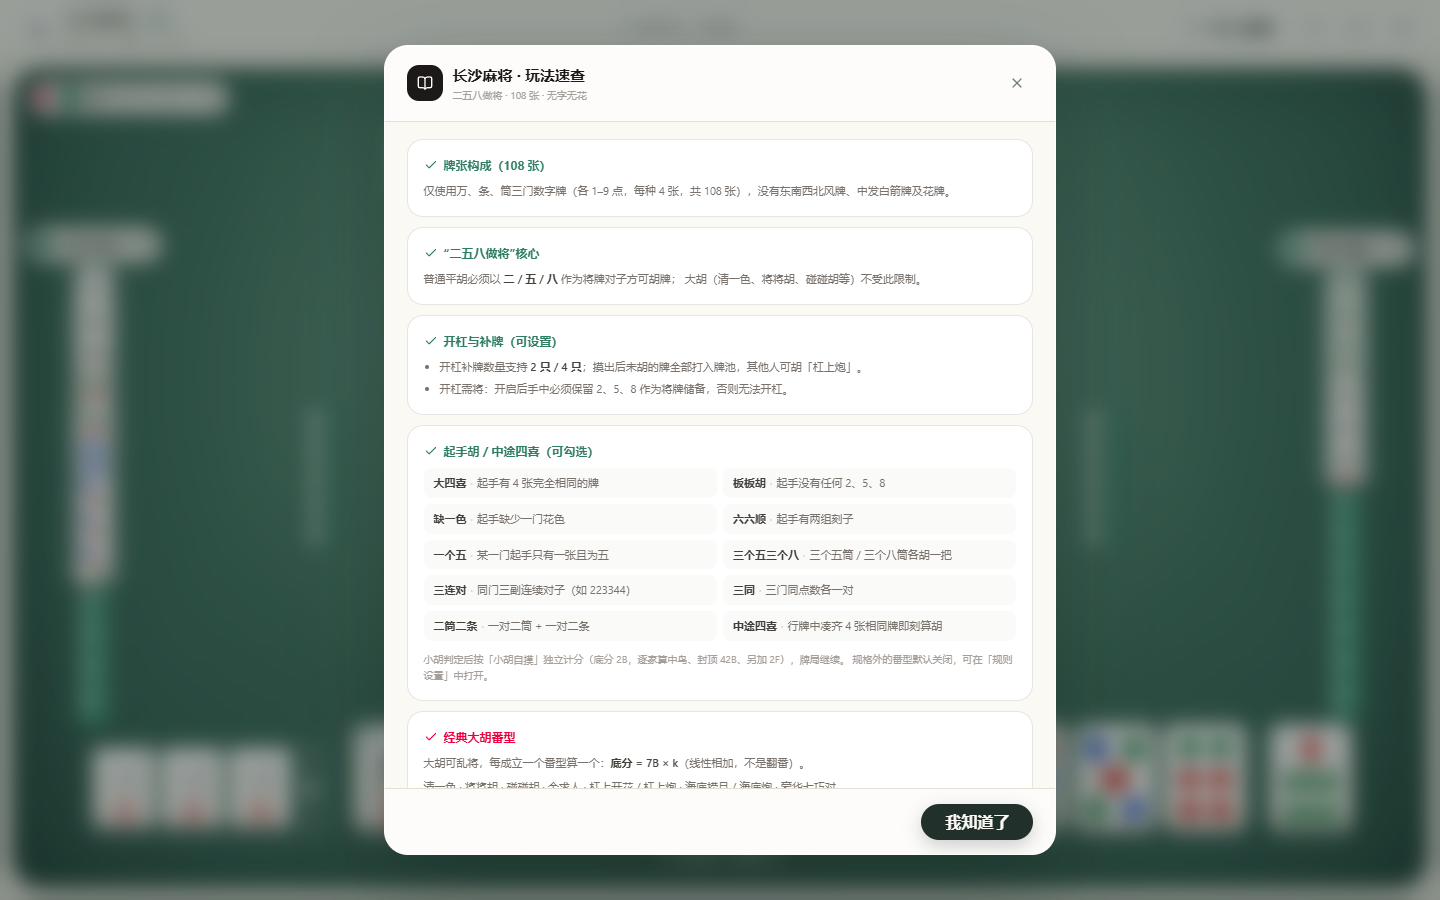
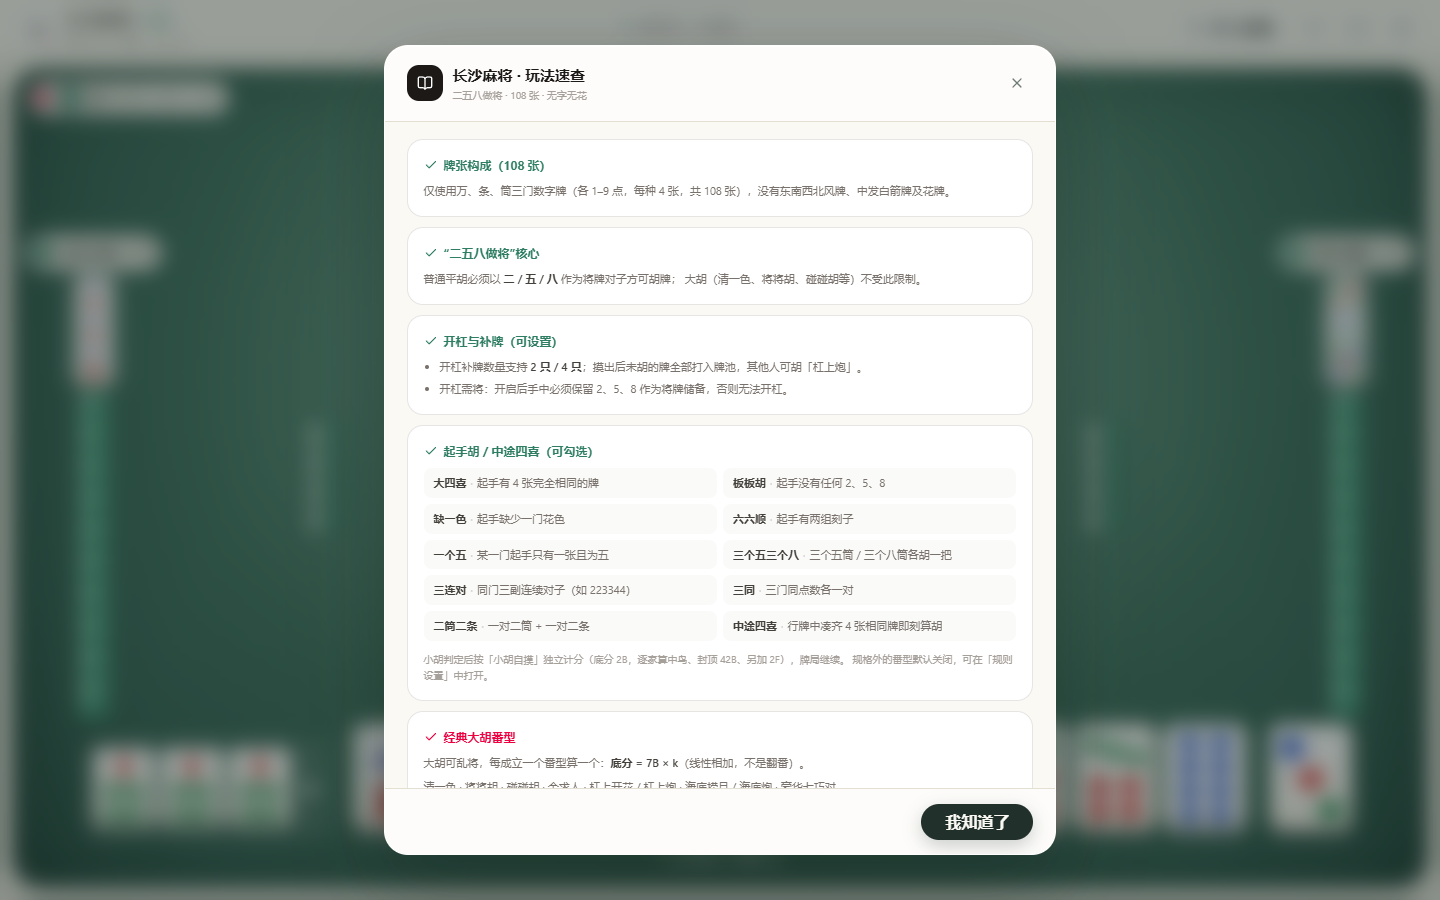
feat: use HJD brush glyphs for 万 tiles (traditional 萬, blue/red ink)
- crop 1-9 wan calligraphy from MJFace2.0-High, key out white, import as transparent PNG
- add reproducible scripts/extract-hjd-tiles.py
- refresh screenshots and docs

diff --git a/src/components/MahjongTile.jsx b/src/components/MahjongTile.jsx
@@ -1,41 +1,44 @@
 import React from 'react';
-import { SUITS, NUMBER_NAMES, isJiangTile } from '../types/mahjong.js';
+import { SUITS, isJiangTile } from '../types/mahjong.js';
+
+import wan1 from '../assets/hjd/wan/wan-1.png';
+import wan2 from '../assets/hjd/wan/wan-2.png';
+import wan3 from '../assets/hjd/wan/wan-3.png';
+import wan4 from '../assets/hjd/wan/wan-4.png';
+import wan5 from '../assets/hjd/wan/wan-5.png';
+import wan6 from '../assets/hjd/wan/wan-6.png';
+import wan7 from '../assets/hjd/wan/wan-7.png';
+import wan8 from '../assets/hjd/wan/wan-8.png';
+import wan9 from '../assets/hjd/wan/wan-9.png';
+
+const WAN_FACE = {
+  1: wan1,
+  2: wan2,
+  3: wan3,
+  4: wan4,
+  5: wan5,
+  6: wan6,
+  7: wan7,
+  8: wan8,
+  9: wan9
+};
 
 // -------------------------------------------------------------
-// 1. 万字牌：墨色数字 + 朱砂「万」，只保留一点点传统印刷的味道
+// 1. 万字牌：直接使用《3D 黄金岛》牌面图集里的毛笔字块（一~九 + 繁体「萬」），
+//    蓝墨数字、朱砂萬，和原版牌面文字一致；只把牌身换成本项目的象牙白样式。
 // -------------------------------------------------------------
 function SvgWan({ value }) {
-  const numChar = NUMBER_NAMES[value];
-  const brushFont = '"Noto Serif SC", "Songti SC", "STSong", "SimSun", serif';
-
+  const src = WAN_FACE[value];
+  if (!src) return null;
   return (
-    <g transform="translate(0, 0)">
-      <text
-        x="36"
-        y="35"
-        textAnchor="middle"
-        dominantBaseline="central"
-        fill="var(--art-ink)"
-        fontSize="34"
-        fontWeight="700"
-        fontFamily={brushFont}
-      >
-        {numChar}
-      </text>
-      <text
-        x="36"
-        y="72"
-        textAnchor="middle"
-        dominantBaseline="central"
-        fill="var(--art-wan-500)"
-        fontSize="34"
-        fontWeight="700"
-        fontFamily={brushFont}
-      >
-        万
-      </text>
-      <line x1="22" y1="53" x2="50" y2="53" stroke="var(--art-wan-300)" strokeWidth="1" strokeLinecap="round" opacity="0.55" />
-    </g>
+    <image
+      href={src}
+      x="9"
+      y="4"
+      width="54"
+      height="84"
+      preserveAspectRatio="xMidYMid meet"
+    />
   );
 }
 
@@ -443,7 +446,7 @@ export default function MahjongTile({
           {tile.suit === SUITS.TONG && <SvgTong value={tile.value} />}
 
           {showJiangBadge && isJiang && (
-            <circle cx="11" cy="11" r="4" fill="var(--color-jade-500)" stroke="var(--art-white)" strokeWidth="1.2" />
+            <circle cx="5.5" cy="6" r="2.2" fill="var(--color-jade-500)" stroke="var(--art-white)" strokeWidth="0.9" />
           )}
         </g>
       </svg>

diff --git a/scripts/extract-hjd-tiles.py b/scripts/extract-hjd-tiles.py
@@ -1,0 +1,89 @@
+#!/usr/bin/env python3
+"""从《3D 黄金岛》的 MJFace2.0-High 图集裁出万子毛笔字块。
+
+输出：src/assets/hjd/wan/wan-1.png ... wan-9.png（透明背景）
+依赖：pip install UnityPy pillow
+
+说明：图集里的字块带不透明白底，这里按「离白距离」生成 alpha，
+保留蓝墨/朱砂的毛笔边缘，便于叠加到本项目的象牙白牌面上。
+"""
+from __future__ import annotations
+
+import argparse
+import os
+import sys
+from pathlib import Path
+
+try:
+    import UnityPy
+    from PIL import Image
+except ImportError:
+    sys.exit("缺少依赖：pip install UnityPy pillow")
+
+BUNDLE = "5ef9bcc6b85a369d81b4e09c5a8c5f0f.bundle"
+TEXTURE = "MJFace2.0-High"
+
+# 图集里 1–9 万字块的粗裁切框（左, 上, 右, 下）
+BOXES = {
+    1: (270, 410, 390, 605),
+    2: (392, 410, 505, 605),
+    3: (512, 410, 625, 605),
+    4: (632, 410, 745, 605),
+    5: (752, 410, 865, 605),
+    6: (872, 410, 985, 605),
+    7: (15, 600, 135, 800),
+    8: (138, 600, 258, 800),
+    9: (262, 600, 382, 800),
+}
+
+
+def strip_white(img: Image.Image) -> Image.Image:
+    img = img.convert("RGBA")
+    px = img.load()
+    for y in range(img.height):
+        for x in range(img.width):
+            r, g, b, _ = px[x, y]
+            m = min(r, g, b)
+            if m >= 248:
+                px[x, y] = (r, g, b, 0)
+            else:
+                px[x, y] = (r, g, b, min(255, int((255 - m) * 2.6)))
+    return img
+
+
+def main() -> None:
+    ap = argparse.ArgumentParser()
+    ap.add_argument("--hjd-root", default=r"D:\4a volcano\HJD\3DHJD\3DHJD_Data\StreamingAssets")
+    ap.add_argument("--out", default="src/assets/hjd/wan")
+    args = ap.parse_args()
+
+    bundle = Path(args.hjd_root) / "aa" / "StandaloneWindows" / BUNDLE
+    if not bundle.exists():
+        sys.exit(f"找不到图集 bundle：{bundle}")
+
+    env = UnityPy.load(str(bundle))
+    atlas = None
+    for obj in env.objects:
+        if obj.type.name != "Texture2D":
+            continue
+        data = obj.read()
+        if str(getattr(data, "m_Name", "")) == TEXTURE:
+            atlas = data.image
+            break
+    if atlas is None:
+        sys.exit(f"图集里找不到 {TEXTURE}")
+
+    out = Path(args.out)
+    out.mkdir(parents=True, exist_ok=True)
+    for n, box in BOXES.items():
+        cell = atlas.crop(box)
+        bbox = cell.getbbox()
+        if bbox:
+            cell = cell.crop(bbox)
+        strip_white(cell).save(out / f"wan-{n}.png")
+        print(f"wan-{n}.png", cell.size)
+    print("完成 ->", out.resolve())
+
+
+if __name__ == "__main__":
+    main()

diff --git a/README.md b/README.md
@@ -28,7 +28,7 @@
 
 - **浅色纸面外壳**：暖白底、细分隔线、低对比阴影，顶栏只保留品牌、模式与四个工具按钮。
 - **青瓷毛毡牌桌**：雾青渐变 + 极细经纬织纹 + 一圈很轻的亮边；没有金边、紫晶罗盘和屏幕震动。
-- **象牙骨牌**：去掉琥珀金底壳，改为象牙白面板 + 一道极浅侧边；万/条/筒改用克制的墨色、朱砂、竹青、靛蓝。
+- **象牙骨牌**：去掉琥珀金底壳，改为象牙白面板 + 一道极浅侧边；万子文字直接取自黄金岛牌面图集的毛笔字块（一~九 + 繁体「萬」），条/筒用克制的竹青、靛蓝、朱砂。
 - **三套桌面**：雾青（默认）/ 暖砂 / 夜潭，只换毛毡色，不改变规则与联机同步。
 - **安静的动效**：摸牌 180ms 滑入、出牌落桌、弹窗上浮、碰杠胡小标签 180ms 淡入；没有长时间阻塞与全屏抖动。
 
@@ -47,7 +47,8 @@ pip install UnityPy
 python scripts/extract-hjd-audio.py --hjd-root "D:/4a volcano/HJD/3DHJD/3DHJD_Data/StreamingAssets"
 ```
 
-> 这些音频来自你提供的《3D 黄金岛》本地文件，仅用于本机/私人项目；若要公开分发，请自行确认授权。
+> 这些音频与万子字块（裁自 HJD `MJFace2.0-High` 牌面图集）来自你提供的《3D 黄金岛》本地文件，
+> 仅用于本机/私人项目；若要公开分发，请自行确认授权。
 
 ### 3. 规则：一行未改
 

diff --git a/docs/DESIGN.md b/docs/DESIGN.md
@@ -189,10 +189,13 @@
 
 ## 5. 牌面规范
 
-- **比例 3:4**（`viewBox="0 0 72 96"`），圆角 `rounded-lg`（约 8% 宽）。
-- 状态：默认（象牙面 + 翠玉背）/ 选中（抬起 + 金 ring）/ 高亮可操作（翠 ring + `brightness-110`）/ 禁用（`opacity-40`）。
-- 牌面数字**必须可辨**：在 32×44 的最小弃牌尺寸下，万字/条子/筒子的识别优先于装饰纹理（P2-2 需逐尺寸看图核对）。
-- 牌背：金色底 + 白边（现状），不得出现可辨认的花色信息（防作弊属性）。
+- **比例 3:4**（`viewBox="0 0 72 96"`），圆角约 8%。
+- **万子文字与黄金岛一致**：直接裁自 HJD `MJFace2.0-High` 图集的毛笔字块（一~九 + 繁体「萬」，蓝墨数字 / 朱砂萬），
+  去白底后以透明 PNG 放在象牙牌面中央；不再用系统字体或简化「万」。图源与裁切见 `src/assets/hjd/wan/`。
+- 条子、筒子保留本项目矢量画法；1 条、8 条、1 筒的构图参考 HJD，但不逐像素复制。
+- 状态：默认（象牙面 + 青瓷背）/ 选中（抬起 + 玉色 ring）/ 高亮可操作（白 ring + `brightness-105`）/ 禁用（`opacity-40`）。
+- 牌面数字**必须可辨**：在最小弃牌尺寸下，万/条/筒的识别优先于装饰纹理。
+- 牌背：青瓷渐变 + 细白线 + 菱形暗记，不得出现可辨认的花色信息（防作弊属性）。
 
 ---
 
